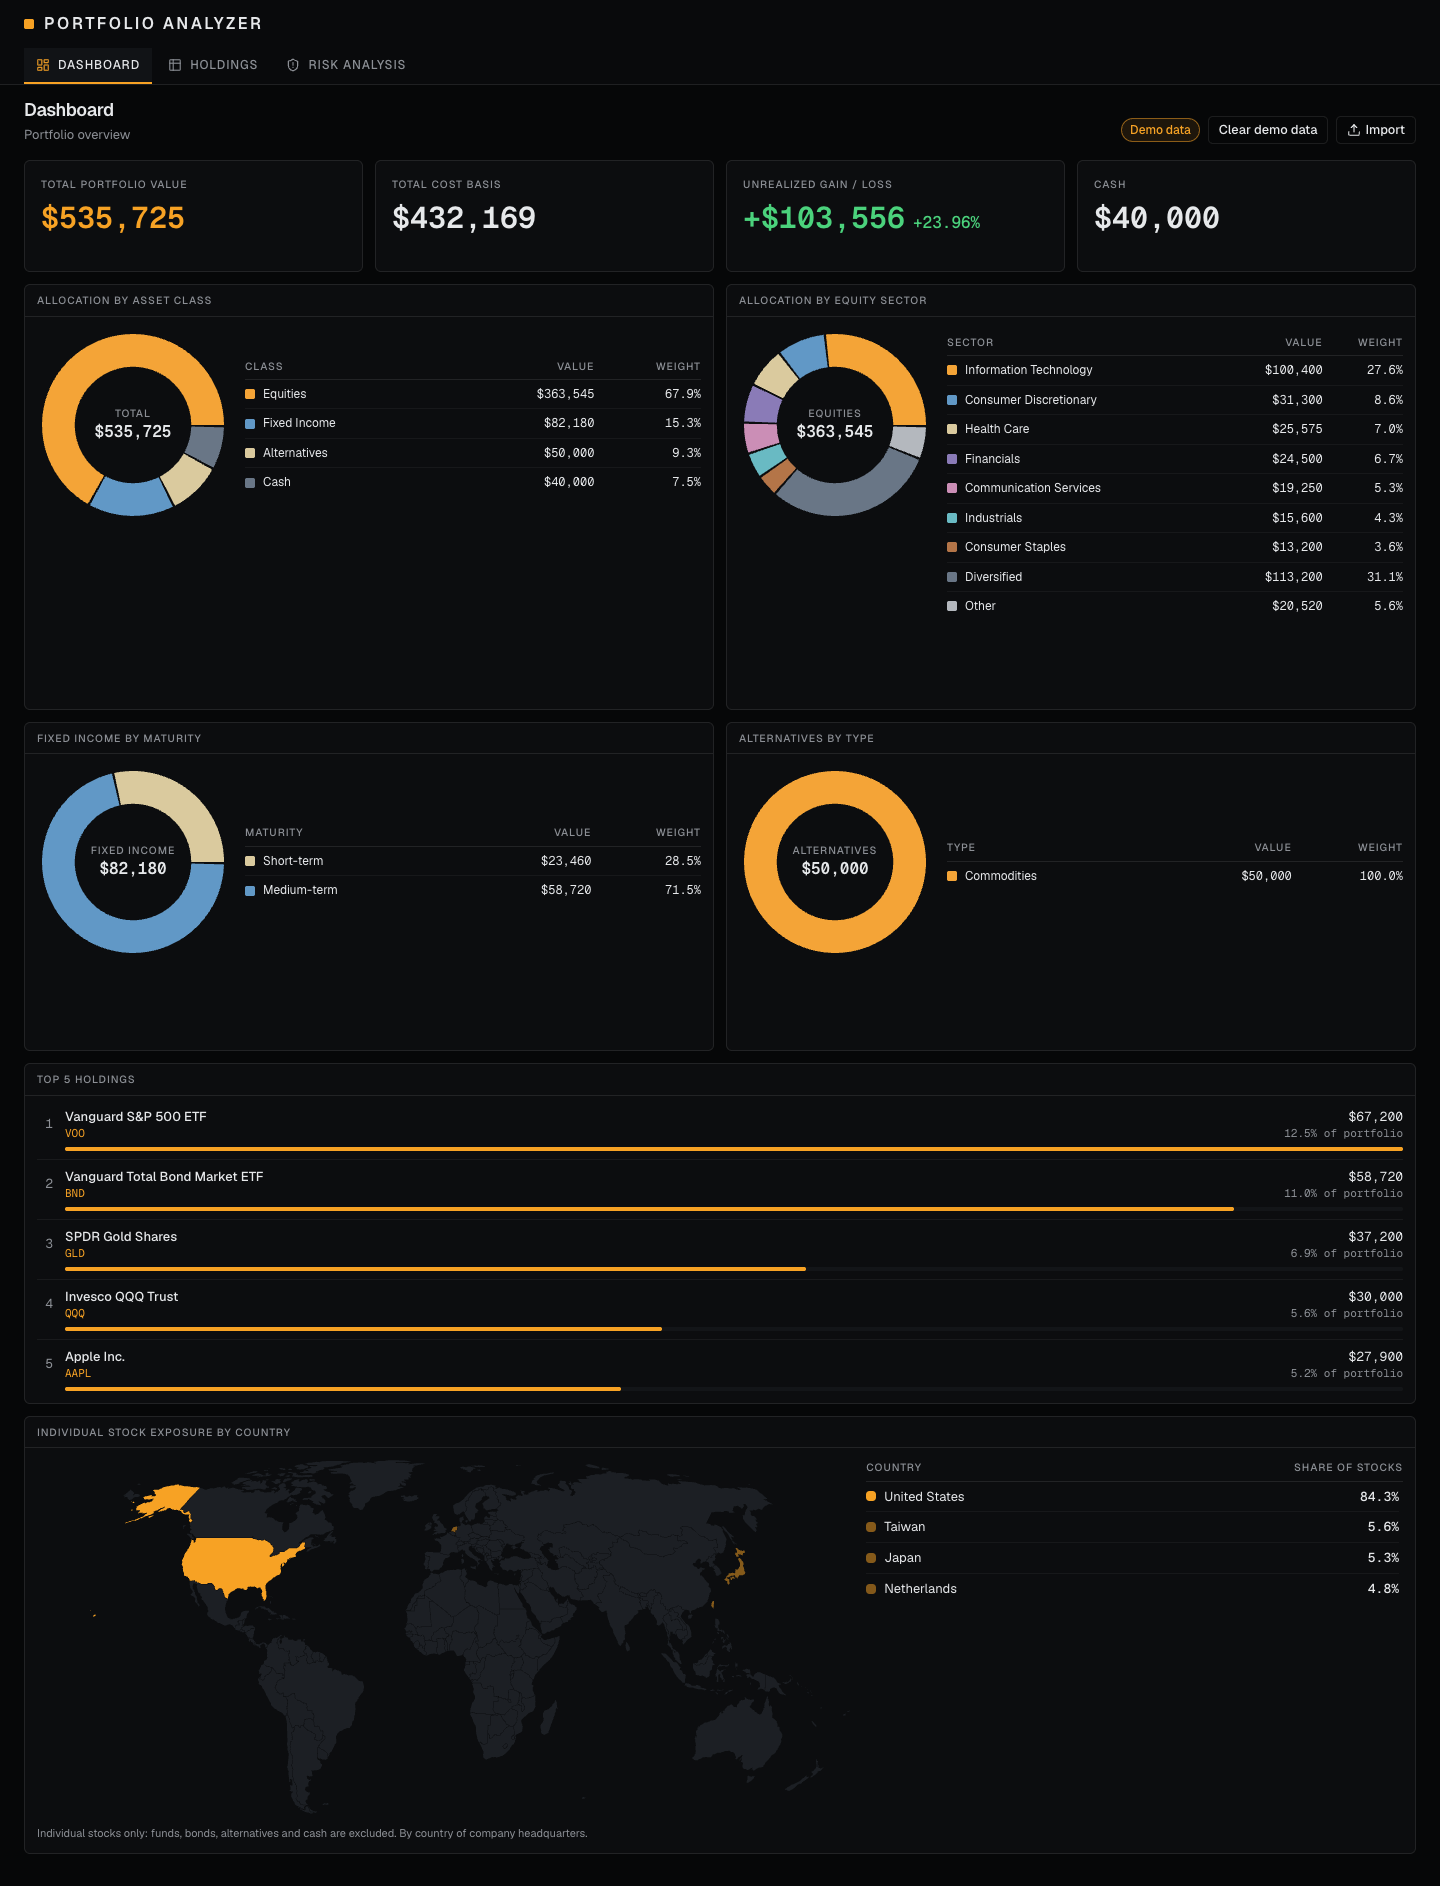
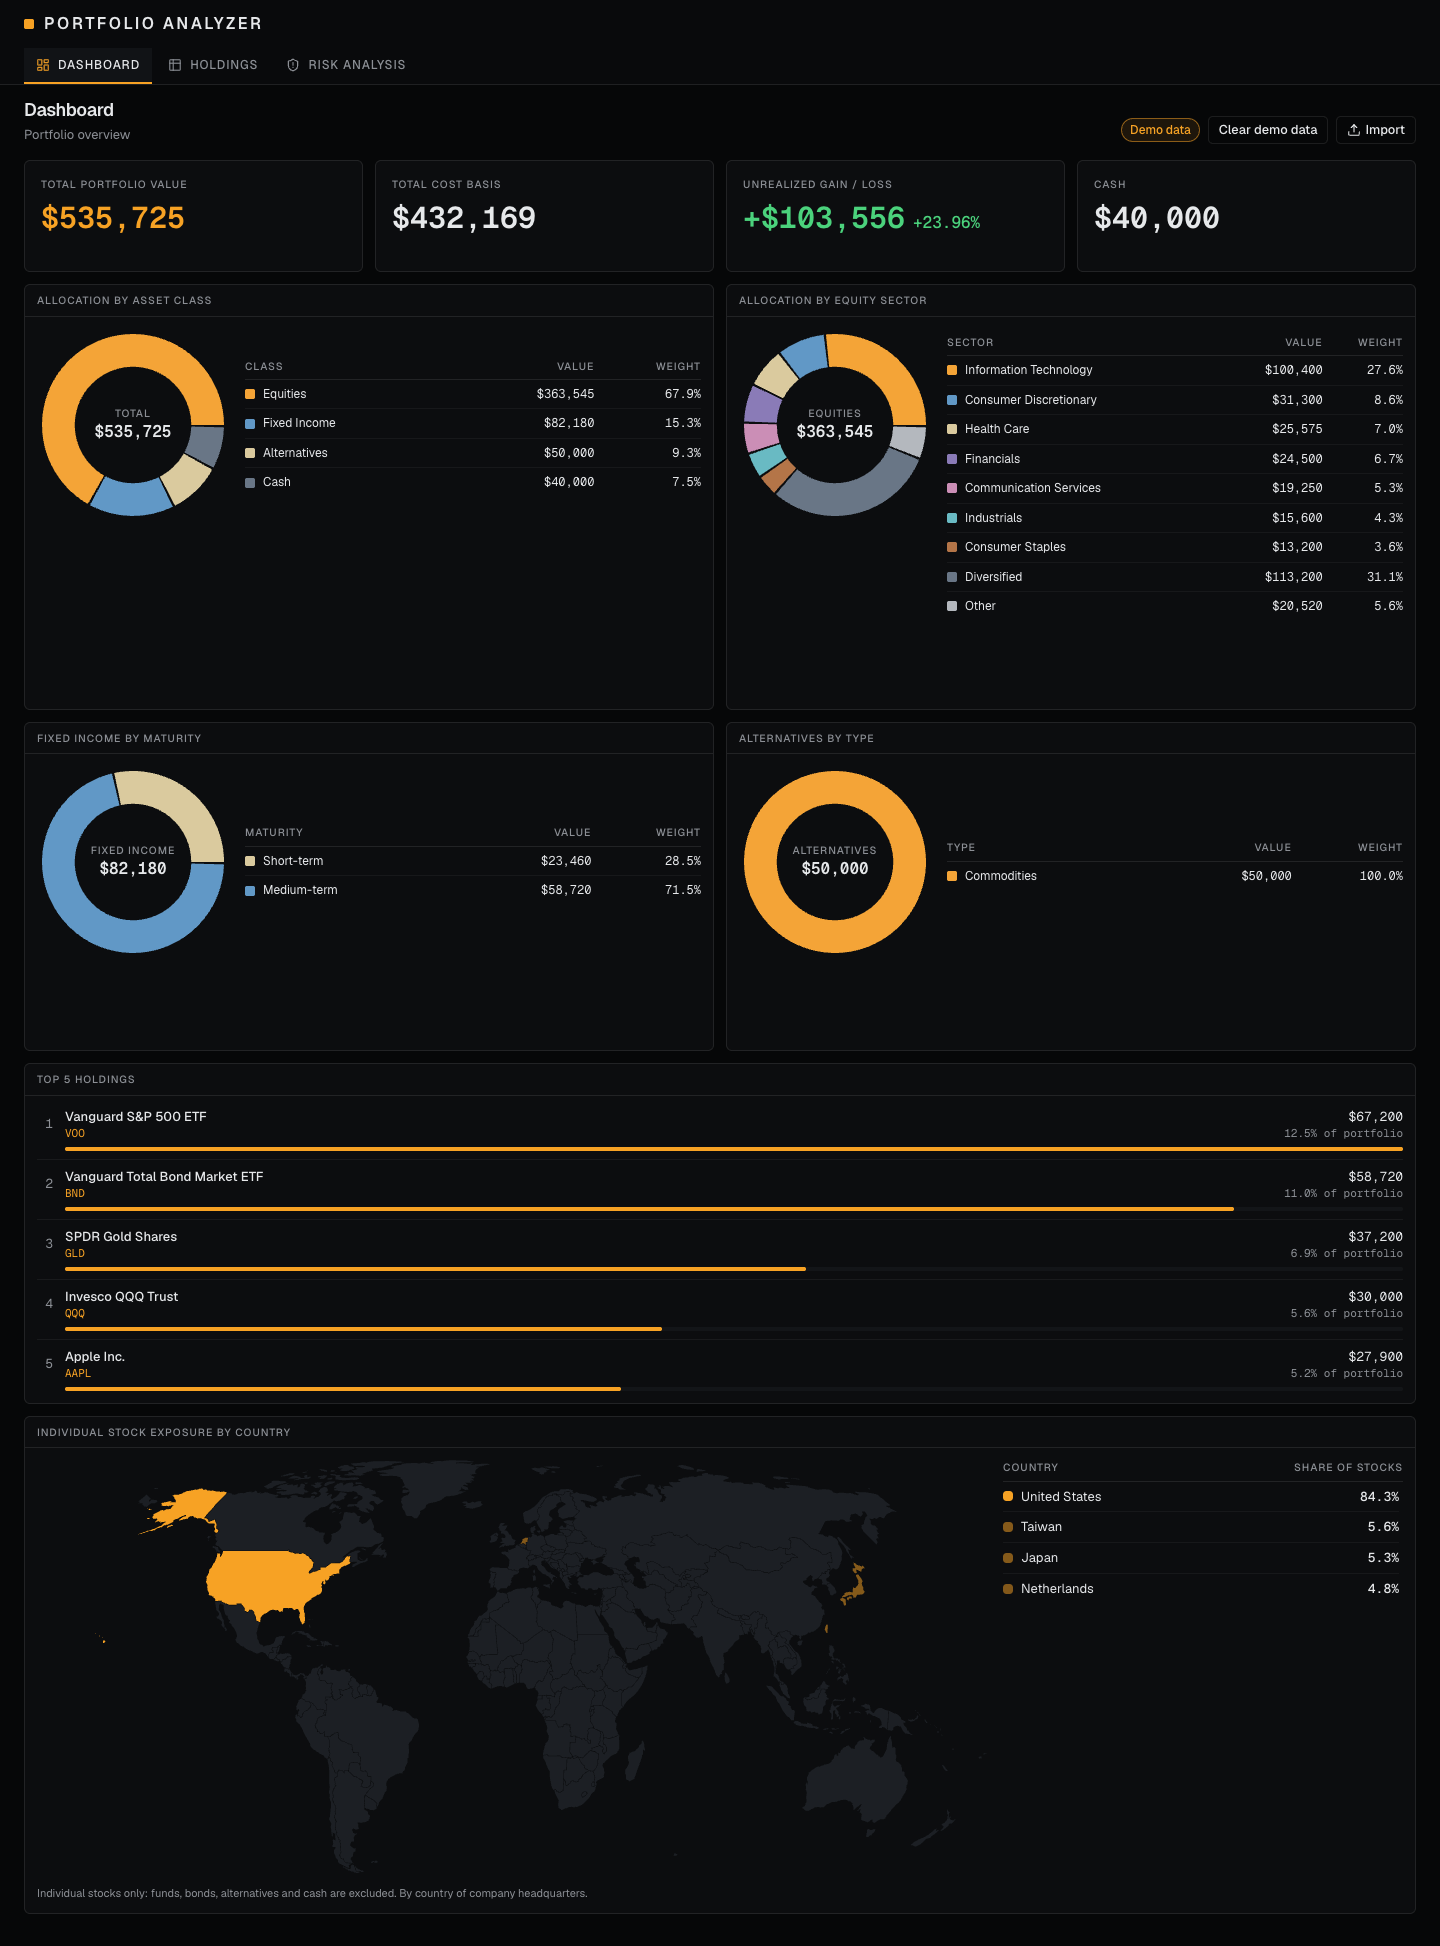
README and SPEC: v1.1 (country column and map), retaken screenshots

diff --git a/README.md b/README.md
@@ -1,6 +1,6 @@
 # Portfolio Analyzer
 
-**Version 1.0** — A dark, terminal-style web app for analyzing an investment portfolio: allocation, sector tilts
+**Version 1.1** — A dark, terminal-style web app for analyzing an investment portfolio: allocation, sector tilts
 versus the S&P 500, a risk profile, and a full holdings ledger, with automatic prices and CSV / Excel / screenshot import.
 
 Each visitor's portfolio is saved **in their own browser**: no accounts, no login, and no server database, so
@@ -63,8 +63,9 @@ one call per holding for every open tab, and each Claude fund lookup costs a few
 provider, and keep the link private if you don't want strangers using your keys.
 
 ## Releases
-Releases are tagged on GitHub. The current release is **v1.0**: browser-based private portfolios, automatic prices
-and autofill, the fund library, backup and restore, and the Risk Analysis tab.
+Releases are tagged on GitHub. The current release is **v1.1**.
+- **v1.1** — Country column for stocks (ETFs show "Diversified") and the **Individual Stock Exposure by Country** world map on the Dashboard; prices refresh every 2 minutes.
+- **v1.0** — browser-based private portfolios, automatic prices and autofill, the fund library, backup and restore, and the Risk Analysis tab.
 
 ## Project docs
 - [`docs/SPEC.md`](docs/SPEC.md) — what the app is and where it's heading

diff --git a/docs/SPEC.md b/docs/SPEC.md
@@ -1,6 +1,6 @@
 # Portfolio Analyzer — Spec (big picture)
 
-Current release: **v1.0** (live on Vercel).
+Current release: **v1.1** (live on Vercel).
 
 ## What it is
 A web app for analyzing an investment portfolio. Positions are entered by hand or imported
